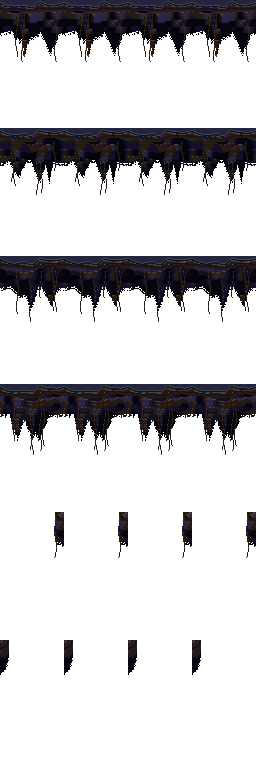
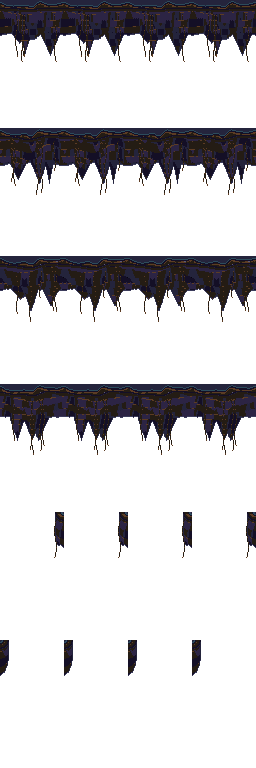
island_underside.png: no sky-dark holes in the cliff (the user: 'the dark spots look like the sky')
No Void in the cliff body: Shade / Root / Night bands with Dread only in small crevices, a gentler fade with depth. A faint cool rim (Dusk on the underside's bottom pixels, Night on its sides) separates the silhouette from the void. Drips are solid to their tips; roots end in a Bark tip. Island colours and wrapped corners kept; same layout, all 4 acts.

diff --git a/Project_T/tools/environment_art/heartwood_grounds.html b/Project_T/tools/environment_art/heartwood_grounds.html
@@ -1834,25 +1834,34 @@ function islandUnderside(A, row, f) {
     len *= shape;
     lens[x] = len;
     for (let i = 1; i <= len; i++) {
-      if (i > len - 3 && hash(x, i, s + 2) < .5) continue;  // a ragged, soft bottom
+      // (solid to its tip: a fading, broken bottom read as holes into the sky)
       const y = yl + i, k = i / Math.max(len, 1);
       let c;
       if (i < 3) c = "#241c14";  // the lip's Root earth carries on down
       else {
-        const band = Math.floor((i + pnoise(x, i, 16, s + 4, 4) * 6) / 7), tone = pnoise(x, band * 8, 8, s + 5, 8) - k * .55 + (band % 2 ? .06 : 0);
+        const band = Math.floor((i + pnoise(x, i, 16, s + 4, 4) * 6) / 7), tone = pnoise(x, band * 8, 8, s + 5, 8) - k * .3 + (band % 2 ? .06 : 0);
         const ledge = Math.floor((i - 1 + pnoise(x, i - 1, 16, s + 4, 4) * 6) / 7) !== band;  // a band's top row
         c = ledge && tone > .45 && hash(x >> 1, band, s + 6) < .5 ? "#5c3c24"  // Bark: a ledge catching light, like the lip's edge
-          : tone > .6 ? "#2c2444" : tone > .42 ? "#241c14" : tone > .2 ? "#140f26" : "#05050d";  // Shade, Root, Dread, Void
+          : tone > .55 ? "#2c2444" : tone > .25 ? "#241c14" : tone > .1 ? "#24243c" : "#140f26";  // Shade, Root, Night, Dread only in small crevices: never as dark as the sky
       }
       L.set(x, y, c);
     }
+  }
+  // A faint cool rim on the silhouette's outer pixels (bottom tips and sides), so the face separates from the void
+  // (the user: "the dark spots look like the sky").
+  const face = new Img(T, T * 2); face.put(L);
+  for (let y = 0; y < T * 2; y++) for (let x = 0; x < T; x++) {
+    if (!face.alpha(x, y) || top.alpha(x, y)) continue;
+    const below = !face.alpha(x, y + 1) && y + 1 < T * 2, side = (x > 0 && !face.alpha(x - 1, y)) || (x < T - 1 && !face.alpha(x + 1, y));
+    if (below) L.set(x, y, "#3c3c5c");  // Dusk: the underside edge catching the void's cold light
+    else if (side) L.set(x, y, "#24243c");  // Night: the face's sides, a step above the sky
   }
   for (let r = 0; r < 5; r++) {  // roots hanging out of the face (only where the face is tall enough)
     const x = Math.floor(4 + hash(r, 1, s) * (T - 8));
     if (lens[x] < 14) continue;
     let yl = 0; for (let y = 0; y < T; y++) if (top.alpha(x, y)) yl = y;
     const end = Math.min(T * 2 - 1, yl + lens[x] + 6 + hash(r, 2, s) * 12);
-    for (let y = yl + 6; y < end; y++) L.set(x + Math.round(Math.sin(y * .2 + r)), y, y % 5 ? "#241c14" : "#5c3c24");
+    for (let y = yl + 6; y < end; y++) L.set(x + Math.round(Math.sin(y * .2 + r)), y, y >= end - 2 ? "#5c3c24" : y % 5 ? "#241c14" : "#5c3c24");  // a solid Bark tip
   }
   L.put(top);  // the lip over the face's top
   return L;
